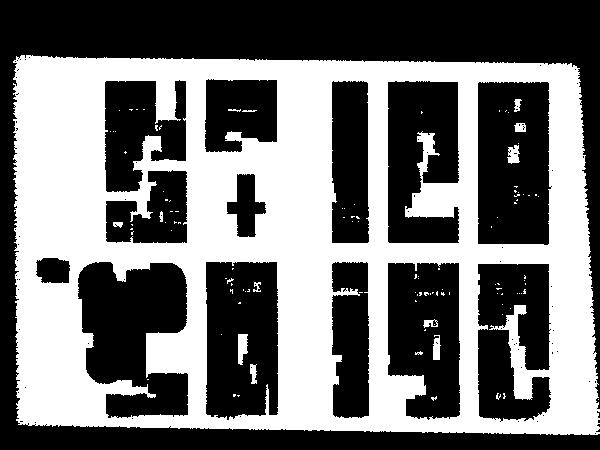
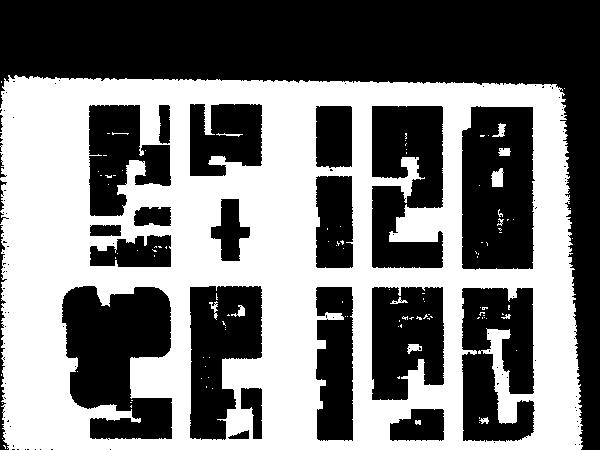
Additional Cleaning
Included a RunAll file to just run the entire thing and a few other QOL changes.

diff --git a/AlgoStuff/TwoDroneSTLtoOMap.m b/AlgoStuff/TwoDroneSTLtoOMap.m
@@ -3,7 +3,7 @@ close all;
 close all hidden;
 
 Scenario = uavScenario;
-stltri = stlread("with_ground_manhattan2_1.stl");
+stltri = stlread("manhattan.stl");
 addMesh(Scenario,"custom",{stltri.Points stltri.ConnectivityList},[0.6350 0.0780 0.1840]);
 ax = show3D(Scenario);
 % Define the total simulation time in seconds
@@ -13,12 +13,13 @@ simTime = 240;
 updateRate = 10;
 
 % Define parameters for snake path
-num_points = 700; % Number of points to represent the snake path
+num_points = 1000; % Number of points to represent the snake path
 frequency = pi/4; % Frequency of the sinusoidal curve
-amplitude = 180; % Amplitude of the sinusoidal curve
 z_value = 100; % Constant value for the Z dimension
 length = ax.XLim(2);
 width = ax.YLim(2);
+
+amplitude = floor(width / 2); % Amplitude of the sinusoidal curve
 
 % Initialize variables
 snake_path = zeros(num_points, 3); % Transposed to 1000x3

diff --git a/AlgoStuff/Astar.m b/AlgoStuff/Astar.m
@@ -12,5 +12,6 @@ planner = plannerHybridAStar(sv, ...
 
 startPose = [50 350 pi/2]; % [meters, meters, radians]
 goalPose = [550 100 -pi/2];
-refpath = plan(planner,startPose,goalPose);     
+[refpath] = plan(planner,startPose,goalPose);     
 show(planner)
+"A* Complete"

diff --git a/AlgoStuff/clean.m b/AlgoStuff/clean.m
@@ -1,6 +1,8 @@
+pyrunfile("./cleanup.py")
 img = imread("ManhattanCleaned.jpg");
 gray_img = rgb2gray(img);
 bin_img = gray_img > 100;
 rawOccMap = ~bin_img;
 map2DClean = binaryOccupancyMap(rawOccMap, 1);
 show(map2DClean)
+"clean Finished"

diff --git a/AlgoStuff/RunAll.m b/AlgoStuff/RunAll.m
@@ -1,0 +1,5 @@
+TwoDroneSTLtoOMap;
+ThreeDto2DOmap;
+clean;
+Astar;
+"Full suite processed."
